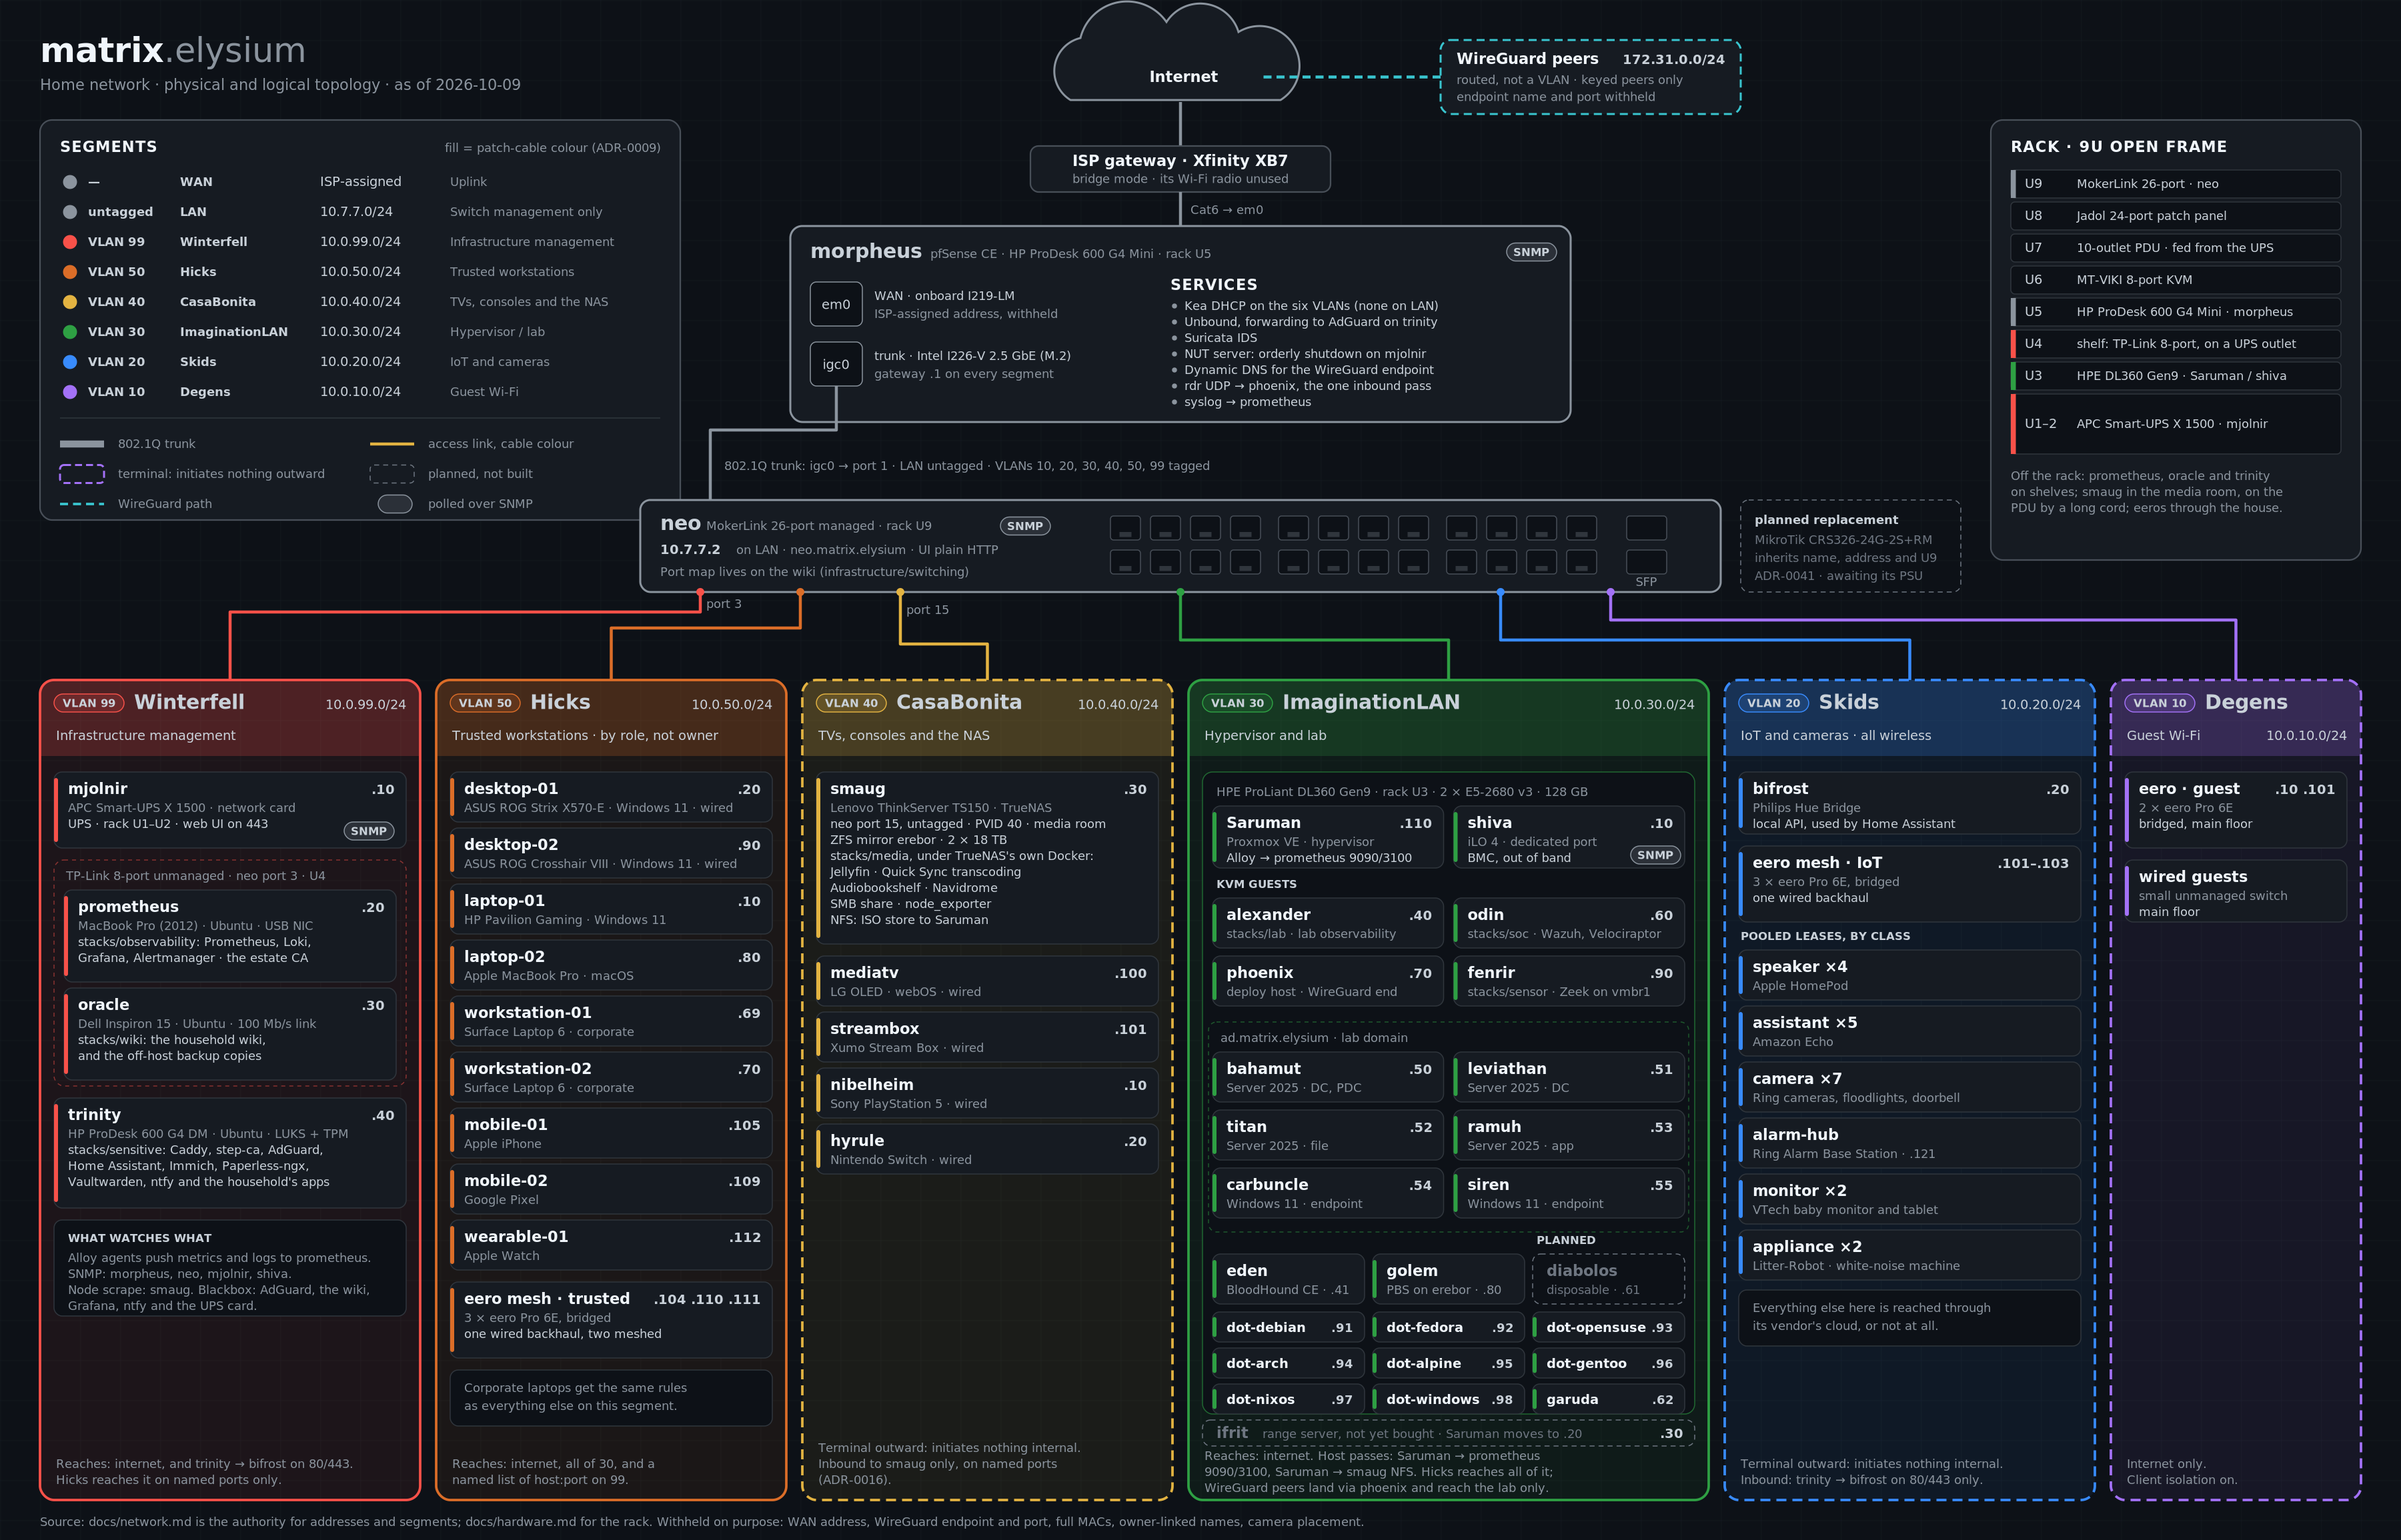
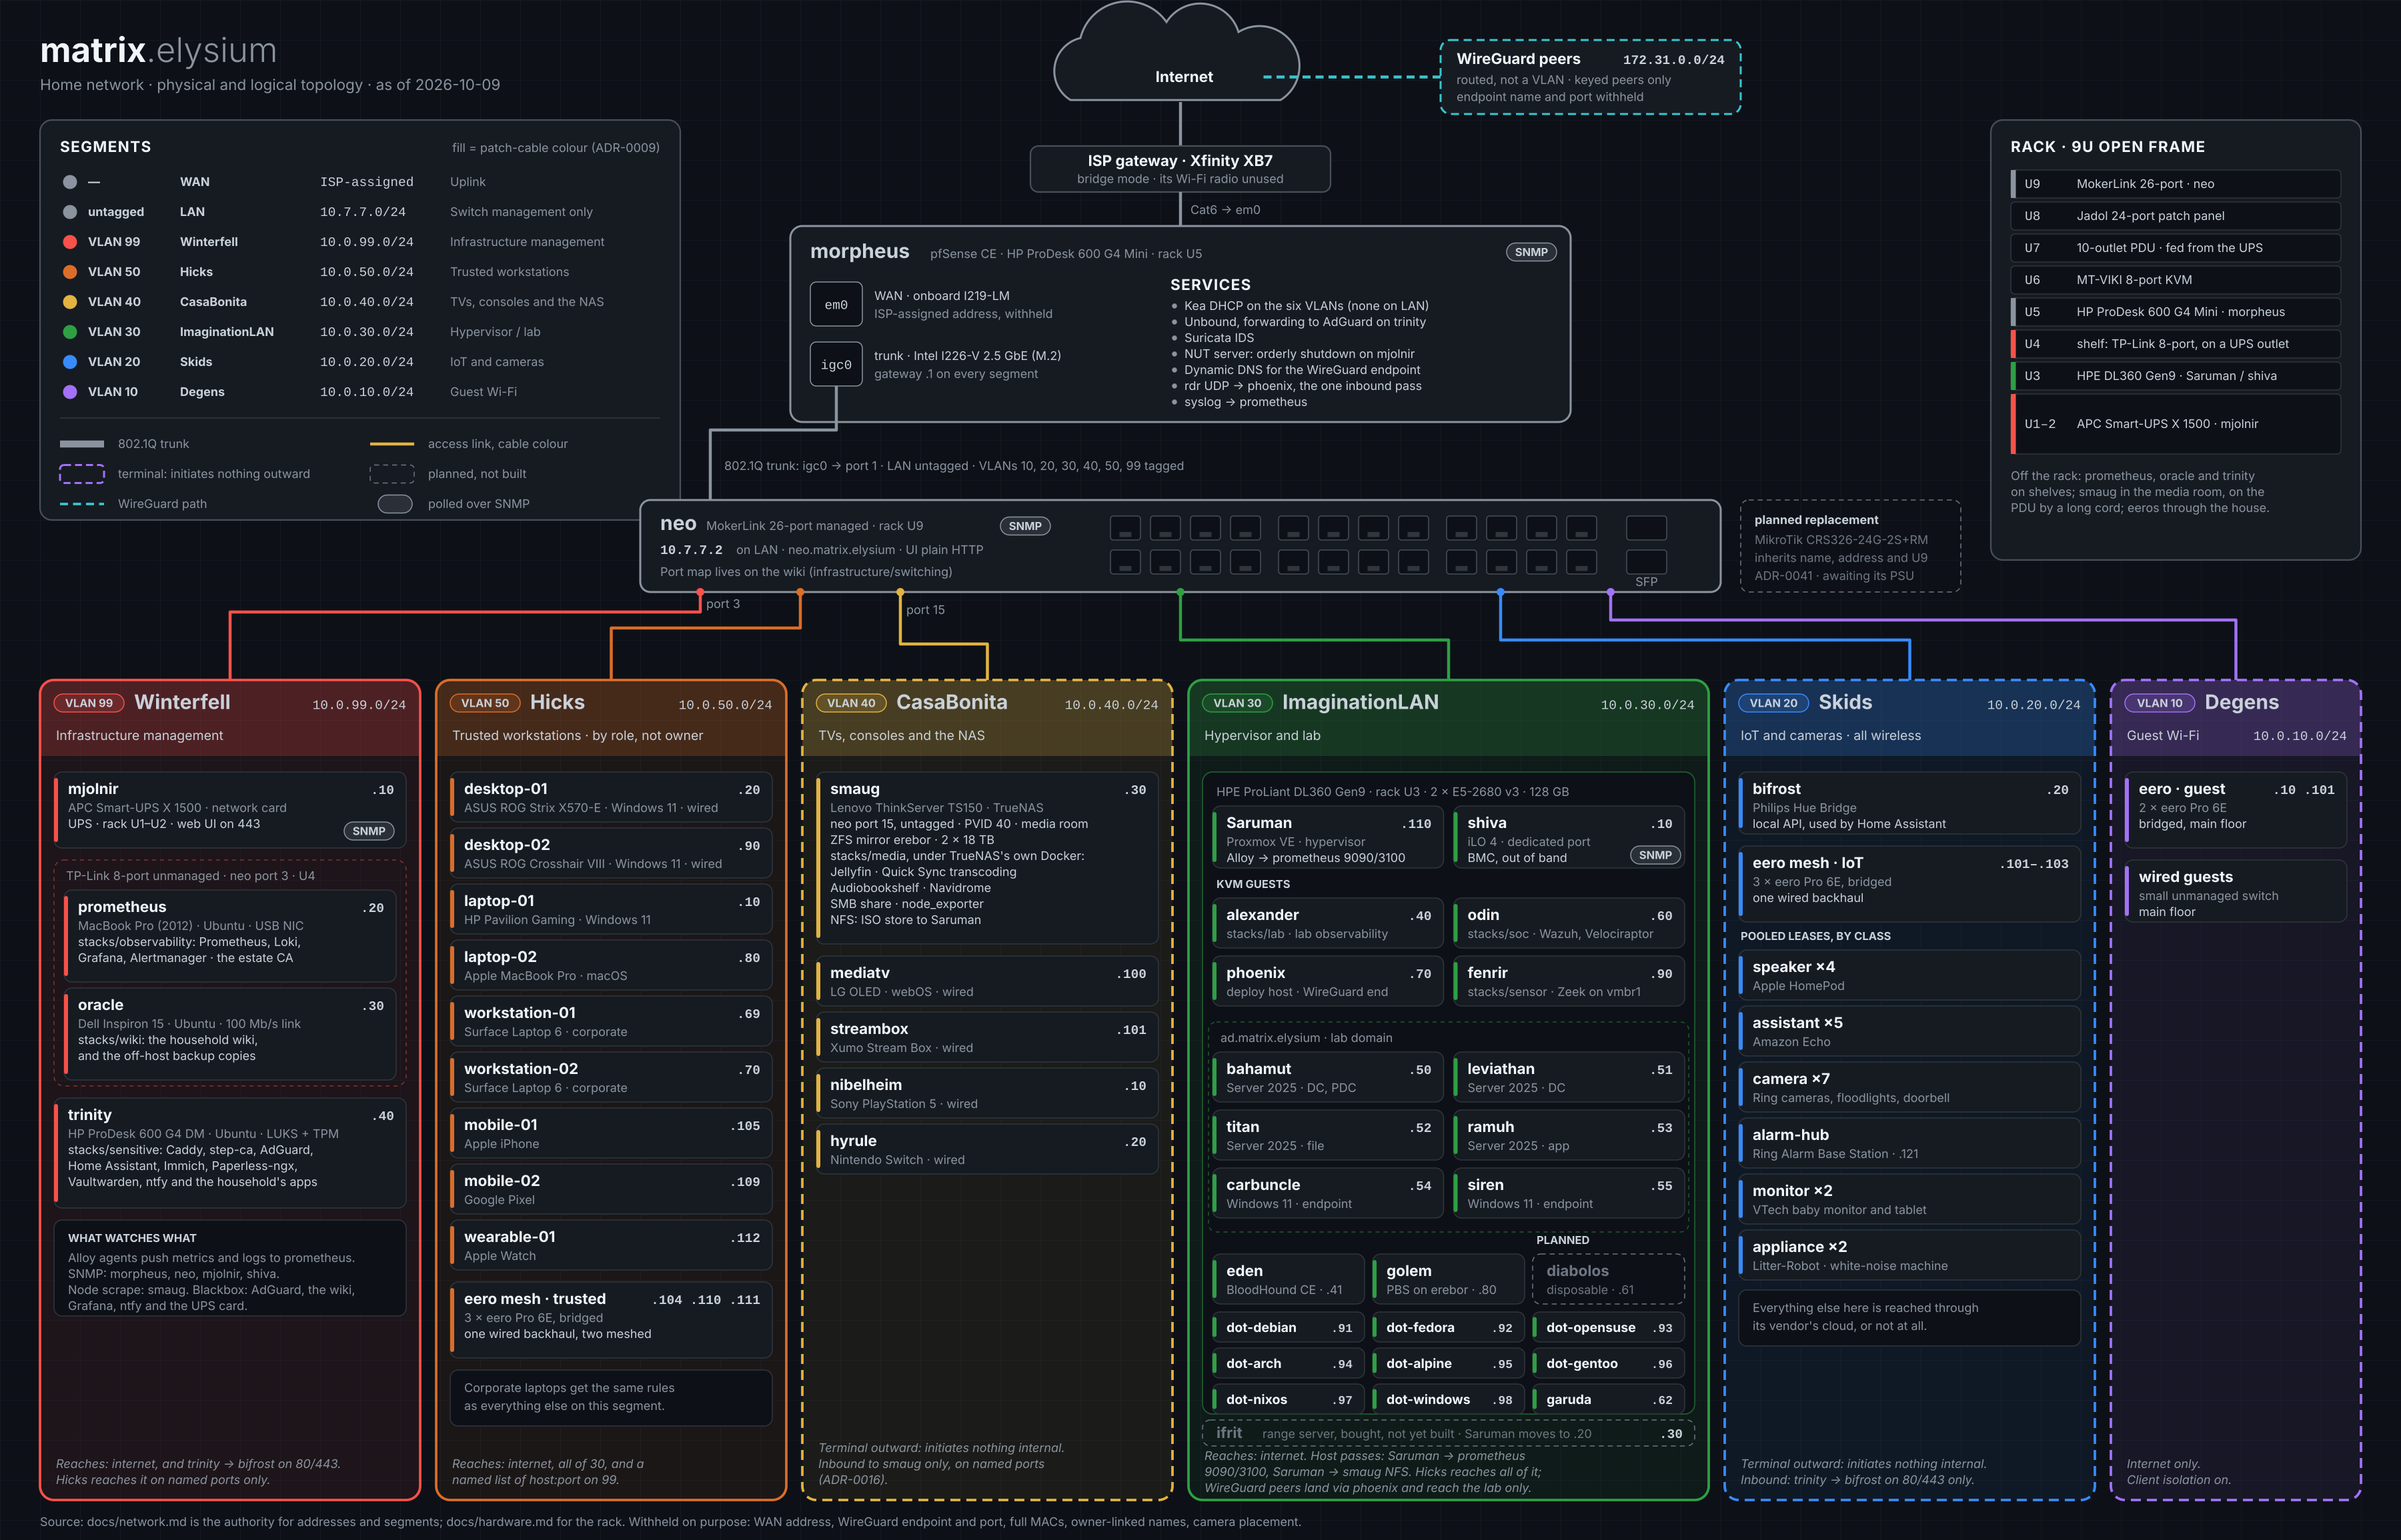
docs: ifrit is bought, not unpurchased (#1183)

diff --git a/docs/roadmap.md b/docs/roadmap.md
@@ -341,24 +341,22 @@ refund rather than a new drive, and the drive was bought outright on
 ([#558](https://github.com/Gerrrt/HomeLab/issues/558)). It is in
 [`hardware.md`](hardware.md).
 
-**Buy these, and the estate as decided is fully bought.** The table is empty
-as of 2026-09-25. It is kept so that the next decided purchase has somewhere
-to go:
+**Buy these, and the estate as decided is fully bought.** The table was empty
+from 2026-09-25 until `ifrit` was bought on 2026-10-05, short of the spec its
+ADR set. These two rows are what it still needs:
 
 | Item | For | Decided by | When it is needed |
 | --- | --- | --- | --- |
+| 2 × 16 GB DDR4 SO-DIMM kit | `ifrit`, replacing the 8 GB it shipped with | [ADR-0017](adr/0017-buy-ifrit-for-iops-and-keep-the-range-disposable.md): 32 GB socketed | Before [`build-the-playground.md`](runbooks/build-the-playground.md) §1 |
+| 1 TB NVMe SSD | `ifrit`'s range and its snapshot reverts | [ADR-0017](adr/0017-buy-ifrit-for-iops-and-keep-the-range-disposable.md): NVMe | Before [`build-the-playground.md`](runbooks/build-the-playground.md) §1 |
 
-**One more, later, and it is the last:** `ifrit`, the range host — a quiet
+**The last one, bought 2026-10-05:** `ifrit`, the range host — a quiet
 SFF box, NVMe, two socketed DIMM slots with 32 GB fitted, one NIC
 ([ADR-0017](adr/0017-buy-ifrit-for-iops-and-keep-the-range-disposable.md),
-[#421](https://github.com/Gerrrt/HomeLab/issues/421)). Gated on the domain
-and the SOC, and both are built (#266 and #267 closed 2026-09-27), so nothing
-gates it now; it is still the last purchase on this list. 32 GB is a
-spec the candidate machines do not meet as shipped — the SFF boxes in that
-class ship with 16 GB in two slots — so a SO-DIMM kit is part of that purchase
-and not a later contingency. The model, the CPU and the disk are chosen at the
-till and recorded in [`hardware.md`](hardware.md) afterwards; nothing is named
-here before it is bought.
+[#421](https://github.com/Gerrrt/HomeLab/issues/421)). The box is a
+refurbished ThinkCentre M80q, and it arrived on 2026-10-14. It shipped with
+8 GB and a 256 GB SSD, so the two rows above are still to buy and fit.
+[`hardware.md`](hardware.md) records the box.
 
 **Only if a decision is taken, and none is pending** — these are not on the
 list, and each names what would put it there:

diff --git a/docs/runbooks/build-the-playground.md b/docs/runbooks/build-the-playground.md
@@ -41,11 +41,12 @@ decision and on this runbook.
 | [#234](https://github.com/Gerrrt/HomeLab/issues/234) — the ImaginationLAN tripwire | **Armed and verified 2026-09-08**, and nothing here re-arms it. §8 and §9 assume it is already live | The only thing watching the boundary this build creates. It is a no-op until the segment holds attackers, which is what §5 makes it |
 | [#235](https://github.com/Gerrrt/HomeLab/issues/235) — whether `shiva` stays on VLAN 30 | **Decided: it stays** ([ADR-0033](../adr/0033-keep-the-ilo-on-the-lab-segment.md)), **and the hardening that decision named was done 2026-09-09** — IPMI-over-LAN, SSH and iLO Federation off, the BMC's credential shared with nothing in the house, its security log read for a baseline, and the redundant `10.0.30.10 → 10.0.99.20/udp` return-path rule deleted from `morpheus`. Read [`SECURITY.md`](../../SECURITY.md)'s row for it rather than doing it again | Before §5 puts a Kali VM in its broadcast domain, the BMC already in that domain has to be the hardened one. A decision taken afterwards is taken under a fact that is already true |
 
-So what remains ahead of §1 is the machine. `ifrit` is unpurchased, and
-nothing gates the purchase any longer: it is still the **last** purchase on the
-estate's list. ADR-0017 and #421 carry the spec to buy against — and, since
-2026-10-01, a priced shortlist — and nothing below this section can be started
-without the box.
+So what remains ahead of §1 is the machine. `ifrit` was bought on 2026-10-05,
+a refurbished ThinkCentre M80q, and arrived on 2026-10-14. It is not ready
+yet: ADR-0017 asks for 32 GB of socketed RAM and an NVMe disk, and the parts
+chosen for that are still to fit. [`hardware.md`](../hardware.md) lists what
+is still to buy and fit, and #421 tracks the build. Nothing below this section
+can be started until they are in.
 
 You will also need a free Green access port on `neo` and an outlet on the PDU.
 `ifrit` does **not** hang off the unmanaged shelf switch: that switch is fed

diff --git a/README.md b/README.md
@@ -396,7 +396,7 @@ is [`docs/changelog.md`](docs/changelog.md), dated and never rewritten.
 
 **Every purchase still outstanding is in one place**, the roadmap's
 [*Everything still to buy*](docs/roadmap.md#everything-still-to-buy):
-0 items now, one later, and a rule that nothing joins them without a
+2 items now, 0 later, and a rule that nothing joins them without a
 decision. This sentence used to carry the list itself, name three purchases
 coupled to the UPS work and omit the tier's host entirely, which is how one
 ProDesk came to be bought for two jobs. It names no current item for the

diff --git a/docs/runbooks/move-into-the-32u-rack.md b/docs/runbooks/move-into-the-32u-rack.md
@@ -468,8 +468,6 @@ In one PR, per [#919](https://github.com/Gerrrt/HomeLab/issues/919):
 - `hardware.md`'s other mentions of `smaug` in the media room, on its long
   cord.
 - [`swap-the-switch.md`](swap-the-switch.md) Phase 3, and its own documents.
-- [`build-the-playground.md`](build-the-playground.md) §0, which still says
-  `ifrit` is unpurchased.
 
 ---
 
